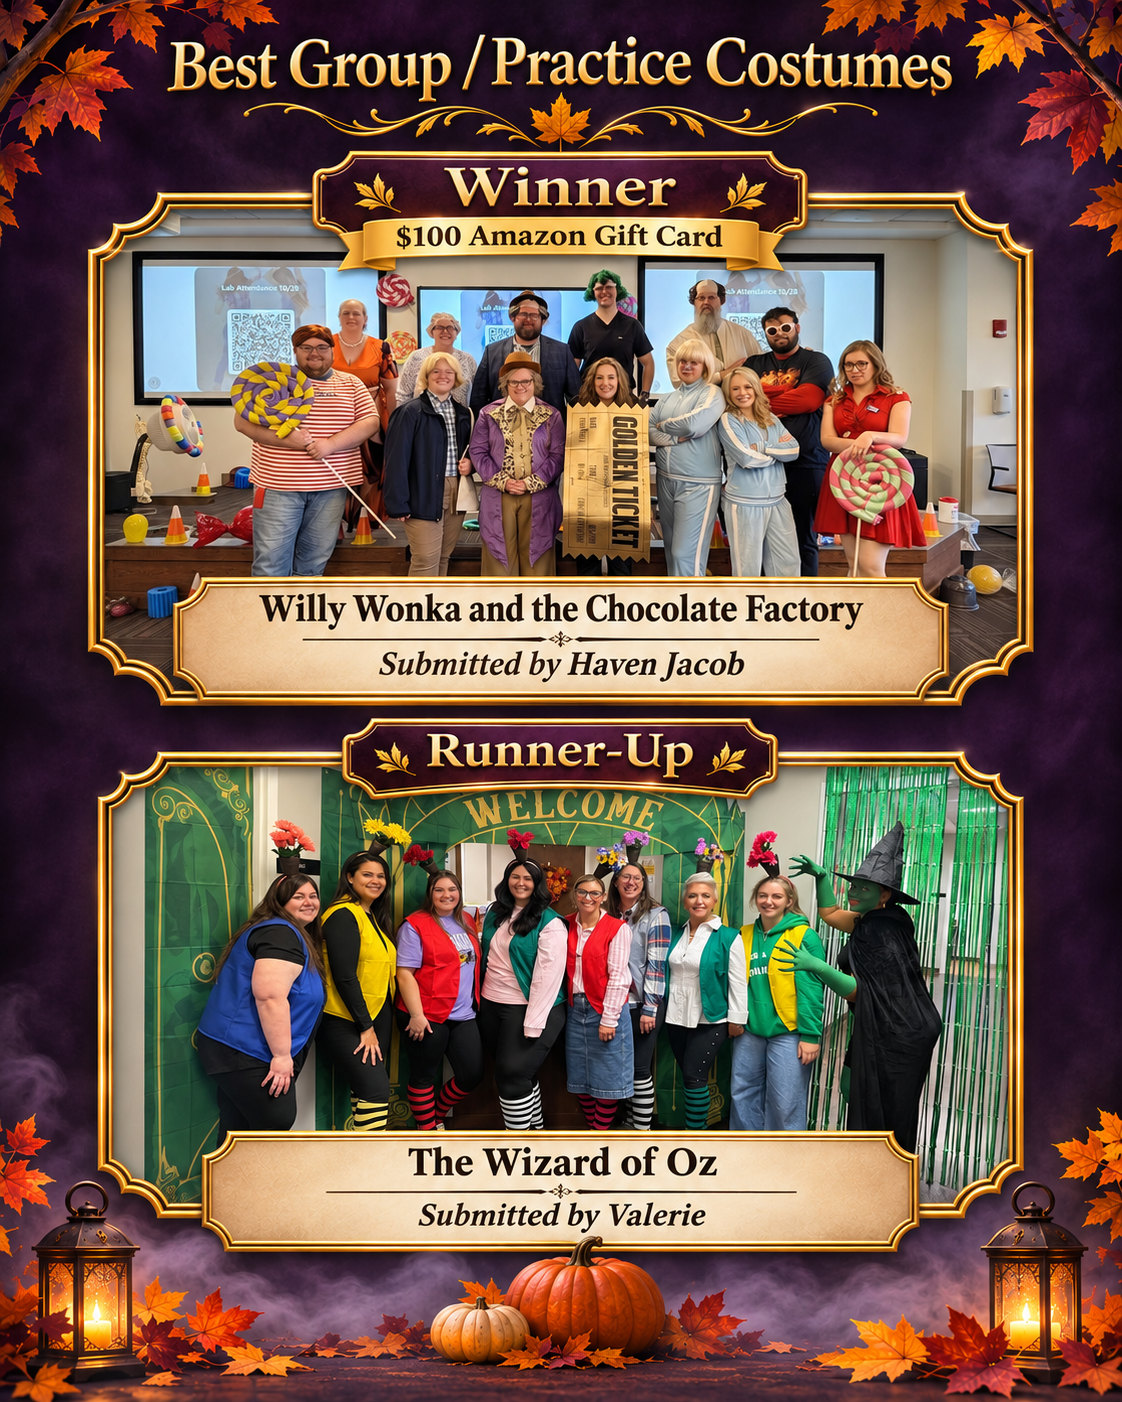
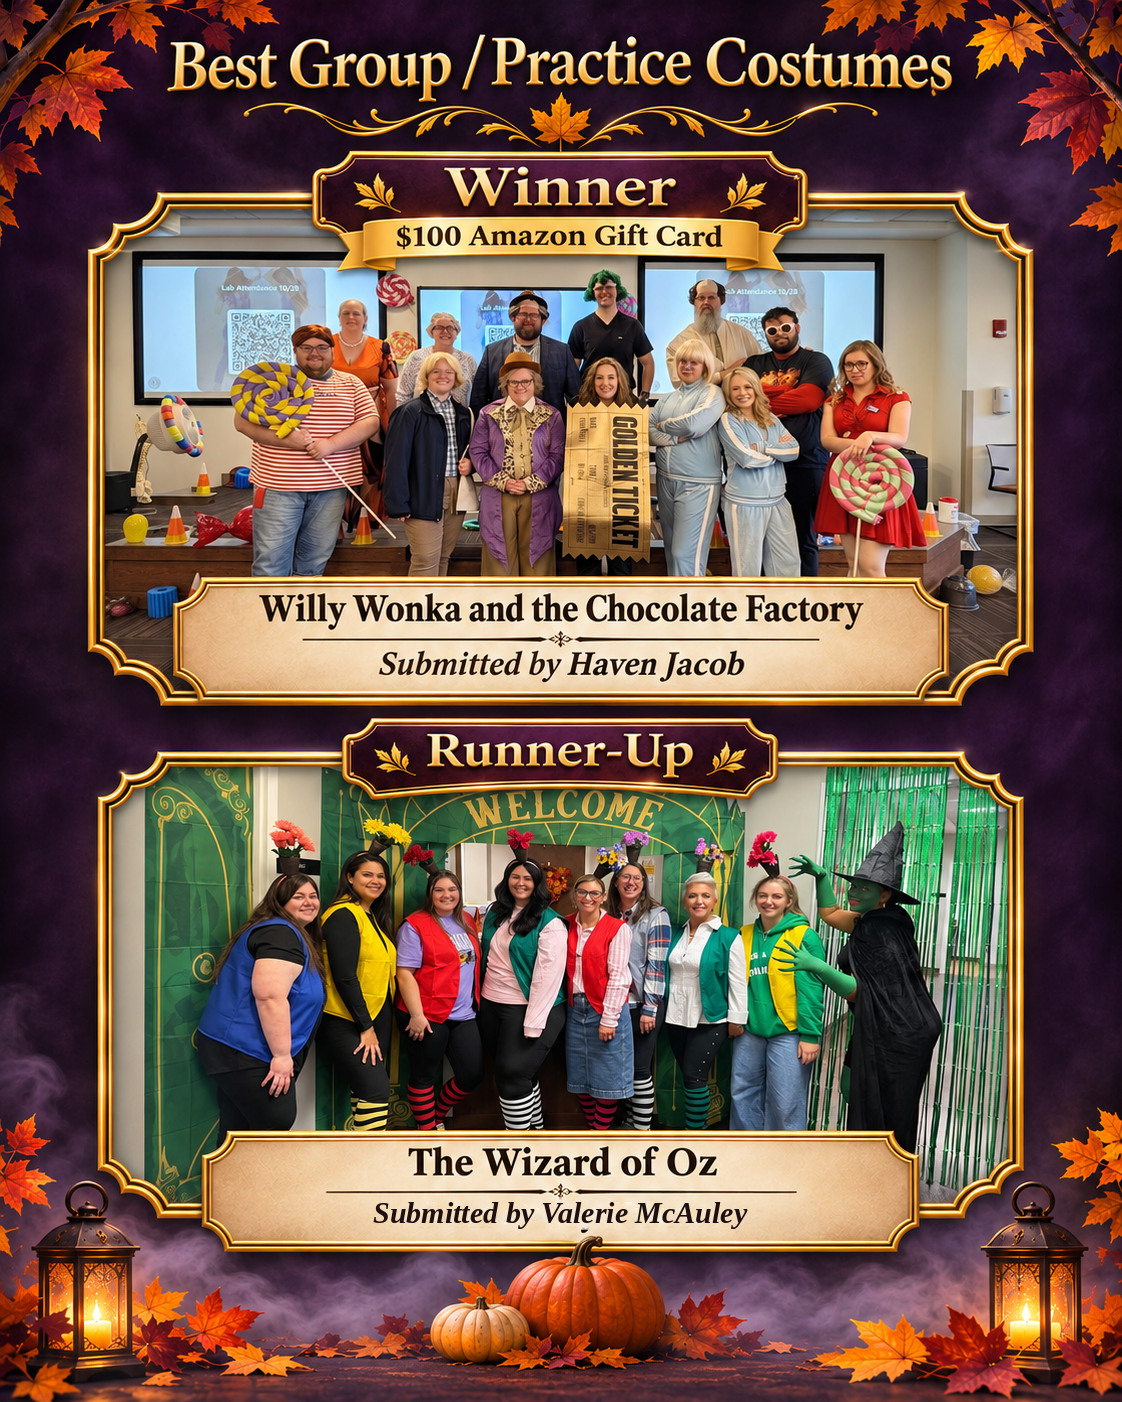
Correct Valerie McAuley nameplate and remove manual unsubscribe link

Changed region(s): [[0.3431, 0.8588, 0.6551, 0.8894]]

diff --git a/halloween-2026/cision-winners-2026-draft.html b/halloween-2026/cision-winners-2026-draft.html
@@ -18,7 +18,7 @@
 <tr><td align="center" style="padding:3px 25px 20px;background-color:#ffffff;line-height:0;font-size:0;"><img src="https://fhunjunkie.github.io/OPAC-Email-Assets/halloween-2026/assets/winners-2026/most-creative.jpg" alt="Most Creative Costume(s): winner Jill Kruse and runner-up submitted by Christine Hart" width="640" style="display:block;border:0;outline:none;text-decoration:none;width:100%;max-width:640px;height:auto;" /></td></tr>
 <tr><td align="left" style="padding:0 33px 7px;background-color:#ffffff;color:#292329;font-family:Arial,Helvetica,sans-serif;font-size:16px;line-height:1.6;"><p style="margin:0 0 15px 0;"><strong>Winner: Jill Kruse | $100 Amazon Gift Card</strong></p><p style="margin:0 0 15px 0;">Some people decorate their porches with pumpkins. Jill Kruse's entry apparently opened a portal to another dimension!</p><p style="margin:0 0 15px 0;">Bringing <em>Pure Vessel and Hornet</em> from <em>Hollow Knight</em> to life, this spectacular submission featured hauntingly detailed costumes, dramatic masks, and enough fog to make a haunted house jealous.</p><p style="margin:0 0 15px 0;">Our zombie judges gave this creation two thumbs up. Of course, it took us nearly 20 minutes to locate both thumbs, but that's beside the point.</p><p style="margin:0 0 15px 0;"><strong>Runner-Up: Entry Submitted by Christine Hart</strong></p><p style="margin:0 0 15px 0;">Talk about a <strong>MAJOR AWARD!</strong></p><p style="margin:0 0 15px 0;">Straight from <em>A Christmas Story</em>, this brilliant recreation of the legendary Leg Lamp quite literally lit up the competition!</p><p style="margin:0 0 15px 0;">It's glowing. It's glamorous. It's FRAGILE! (Must be Italian.)</p><p style="margin:0 0 15px 0;">Somewhere, Ralphie's father is shedding a tear of pride. Meanwhile, our judges are still debating whether the costume should receive an award or be plugged into the nearest electrical outlet.</p></td></tr>
 <tr><td style="padding:29px 27px 14px;background-color:#ffffff;" align="center"><table role="presentation" cellpadding="0" cellspacing="0" border="0" width="100%"><tr><td style="padding:14px 15px;border-top:3px solid #c88b36;border-bottom:3px solid #c88b36;background-color:#fff0d4;color:#9d421b;text-align:center;font-family:Georgia,'Times New Roman',serif;font-size:25px;font-weight:bold;line-height:1.3;">BEST GROUP / PRACTICE COSTUMES</td></tr></table></td></tr>
-<tr><td align="center" style="padding:3px 25px 20px;background-color:#ffffff;line-height:0;font-size:0;"><img src="https://fhunjunkie.github.io/OPAC-Email-Assets/halloween-2026/assets/winners-2026/best-group-practice.jpg" alt="Best Group / Practice Costumes: winner submitted by Haven Jacob and runner-up submitted by Valerie McAuley" width="640" style="display:block;border:0;outline:none;text-decoration:none;width:100%;max-width:640px;height:auto;" /></td></tr>
+<tr><td align="center" style="padding:3px 25px 20px;background-color:#ffffff;line-height:0;font-size:0;"><img src="https://fhunjunkie.github.io/OPAC-Email-Assets/halloween-2026/assets/winners-2026/best-group-practice.jpg?v=valerie-mcauley-20261113" alt="Best Group / Practice Costumes: winner submitted by Haven Jacob and runner-up submitted by Valerie McAuley" width="640" style="display:block;border:0;outline:none;text-decoration:none;width:100%;max-width:640px;height:auto;" /></td></tr>
 <tr><td align="left" style="padding:0 33px 7px;background-color:#ffffff;color:#292329;font-family:Arial,Helvetica,sans-serif;font-size:16px;line-height:1.6;"><p style="margin:0 0 15px 0;"><strong>Winner: Entry Submitted by Haven Jacob | $100 Amazon Gift Card</strong></p><p style="margin:0 0 15px 0;"><strong>We've got a GOLDEN TICKET!</strong></p><p style="margin:0 0 15px 0;">The <em>Willy Wonka and the Chocolate Factory</em> crew, submitted by Haven Jacob, turned an ordinary gathering into a full-blown candy-coated spectacle! From oversized lollipops to Oompa Loompas, Willy Wonka, and the coveted Golden Ticket, this group delivered enough creativity to give the entire chocolate factory a sugar high.</p><p style="margin:0 0 15px 0;">Our zombie judges were particularly impressed by the Golden Ticket. They've spent years searching for one that guarantees better Medicare reimbursement. Unfortunately, all they keep finding are chocolate bars and disappointment.</p><p style="margin:0 0 15px 0;"><strong>Runner-Up: Entry Submitted by Valerie McAuley</strong></p><p style="margin:0 0 15px 0;">There's no place like home! There's no place like home!</p><p style="margin:0 0 15px 0;">But apparently, there's also no place like the <em>Wizard of Oz</em> crew, submitted by Valerie McAuley, who followed the yellow brick road straight into our runners-up spotlight!</p><p style="margin:0 0 15px 0;">With colorful characters, an Emerald City welcome, and one wickedly good witch, this group proved that a little brains, heart, and courage can go a long way.</p><p style="margin:0 0 15px 0;">Speaking of brains, heart, and courage... if anyone happens to find the Wizard, could you please send him to Capitol Hill? We have a few requests.</p></td></tr>
 <tr><td style="padding:29px 27px 14px;background-color:#ffffff;" align="center"><table role="presentation" cellpadding="0" cellspacing="0" border="0" width="100%"><tr><td style="padding:14px 15px;border-top:3px solid #c88b36;border-bottom:3px solid #c88b36;background-color:#fff0d4;color:#9d421b;text-align:center;font-family:Georgia,'Times New Roman',serif;font-size:25px;font-weight:bold;line-height:1.3;">SCARIEST COSTUME</td></tr></table></td></tr>
 <tr><td align="center" style="padding:3px 25px 20px;background-color:#ffffff;line-height:0;font-size:0;"><img src="https://fhunjunkie.github.io/OPAC-Email-Assets/halloween-2026/assets/winners-2026/scariest.jpg" alt="Scariest Costume: winner submitted by Mary McFarland and runner-up submitted by Yasmine Awayes" width="640" style="display:block;border:0;outline:none;text-decoration:none;width:100%;max-width:640px;height:auto;" /></td></tr>
@@ -45,5 +45,5 @@
 <tr><td align="left" style="padding:0 33px 7px;background-color:#ffffff;color:#292329;font-family:Arial,Helvetica,sans-serif;font-size:16px;line-height:1.6;"><p style="margin:0 0 15px 0;">A monstrous round of applause to every winner, runner-up, honorary black cat, costumed historian, and contestant who helped make our third annual Hall-O-Advocacy such a screaming success!</p><p style="margin:0 0 12px 0;color:#9d421b;font-size:17px;font-weight:bold;">TO OUR WINNERS: CHECK YOUR INBOXES... IF YOU DARE!</p><p style="margin:0 0 15px 0;">OPAC will contact each of our six official category winners directly with instructions to claim their Amazon gift cards. No need to summon a s&eacute;ance, consult a crystal ball, or stalk the mail carrier.</p><p style="margin:0 0 15px 0;">We are, of course, assuming you provided us with a working email address! Our zombie judges may have risen from the grave, but even they can&rsquo;t resurrect a bounced email. Be sure to check your spam folder, too. Apparently, even good news can end up in the crypt!</p><p style="margin:0 0 15px 0;">The candy may be gone and the pumpkins may be collapsing, but the costumes will live forever on the <a href="https://www.osteopathicpac.com/hall-o-advocacy-wall-of-fame" style="color:#8648a2;text-decoration:underline;font-weight:bold;">OPAC Halloween Wall of Fame</a>.</p><p style="margin:0 0 15px 0;">And remember: ghosts are frightening. Zombies are unsettling. But you cannot scare us. <strong>We have seen the Medicare Physician Fee Schedule.</strong></p><p style="margin:0 0 15px 0;">Happy Hall-O-Advocacy!<br><strong>The OPAC Board</strong></p></td></tr>
 <tr><td align="center" style="padding:0;line-height:0;font-size:0;"><img src="https://fhunjunkie.github.io/OPAC-Email-Assets/halloween-2026/assets/original-footer.png" alt="OPAC Halloween footer artwork" width="700" style="display:block;width:100%;max-width:700px;height:auto;border:0;outline:none;" /></td></tr>
 <tr><td align="left" style="padding:15px 25px 6px;background:#ffffff;color:#666666;font:11px/1.55 Arial,Helvetica,sans-serif;">AOIA-OPAC is a federally registered PAC supporting federal candidates and committees for the advancement of the osteopathic profession. Contributions are voluntary and cannot be solicited through coercion, financial reprisal, or any form of discrimination. Corporate contributions, including those from office accounts, cannot be given directly to candidates or committees. Checks must be signed by the member; otherwise, those signed by a non-member (e.g., a spouse) will be directed to the OPAC administrative account for political education purposes. AOIA-OPAC may use corporate contributions for education, fundraising, and administrative costs as allowed by law. Contributions are not tax-deductible. Federal law requires OPAC to collect the name, address, occupation, and employer of donors contributing over $200 in a calendar year.</td></tr>
-<tr><td align="left" style="padding:5px 25px 24px;background:#ffffff;color:#666666;font:11px/1.55 Arial,Helvetica,sans-serif;">If you would rather not receive future communications from OPAC, <a href="mailto:chughes@osteopathic.org?subject=Unsubscribe%20from%20OPAC%20communications" style="color:#6b4a7f;text-decoration:underline;">let us know by clicking here</a>.<br />OPAC, 511 2nd Street N.E., Washington, DC 20002 United States</td></tr>
+<tr><td align="left" style="padding:5px 25px 24px;background:#ffffff;color:#666666;font:11px/1.55 Arial,Helvetica,sans-serif;">OPAC, 511 2nd Street N.E., Washington, DC 20002 United States</td></tr>
 </table></td></tr></table>
